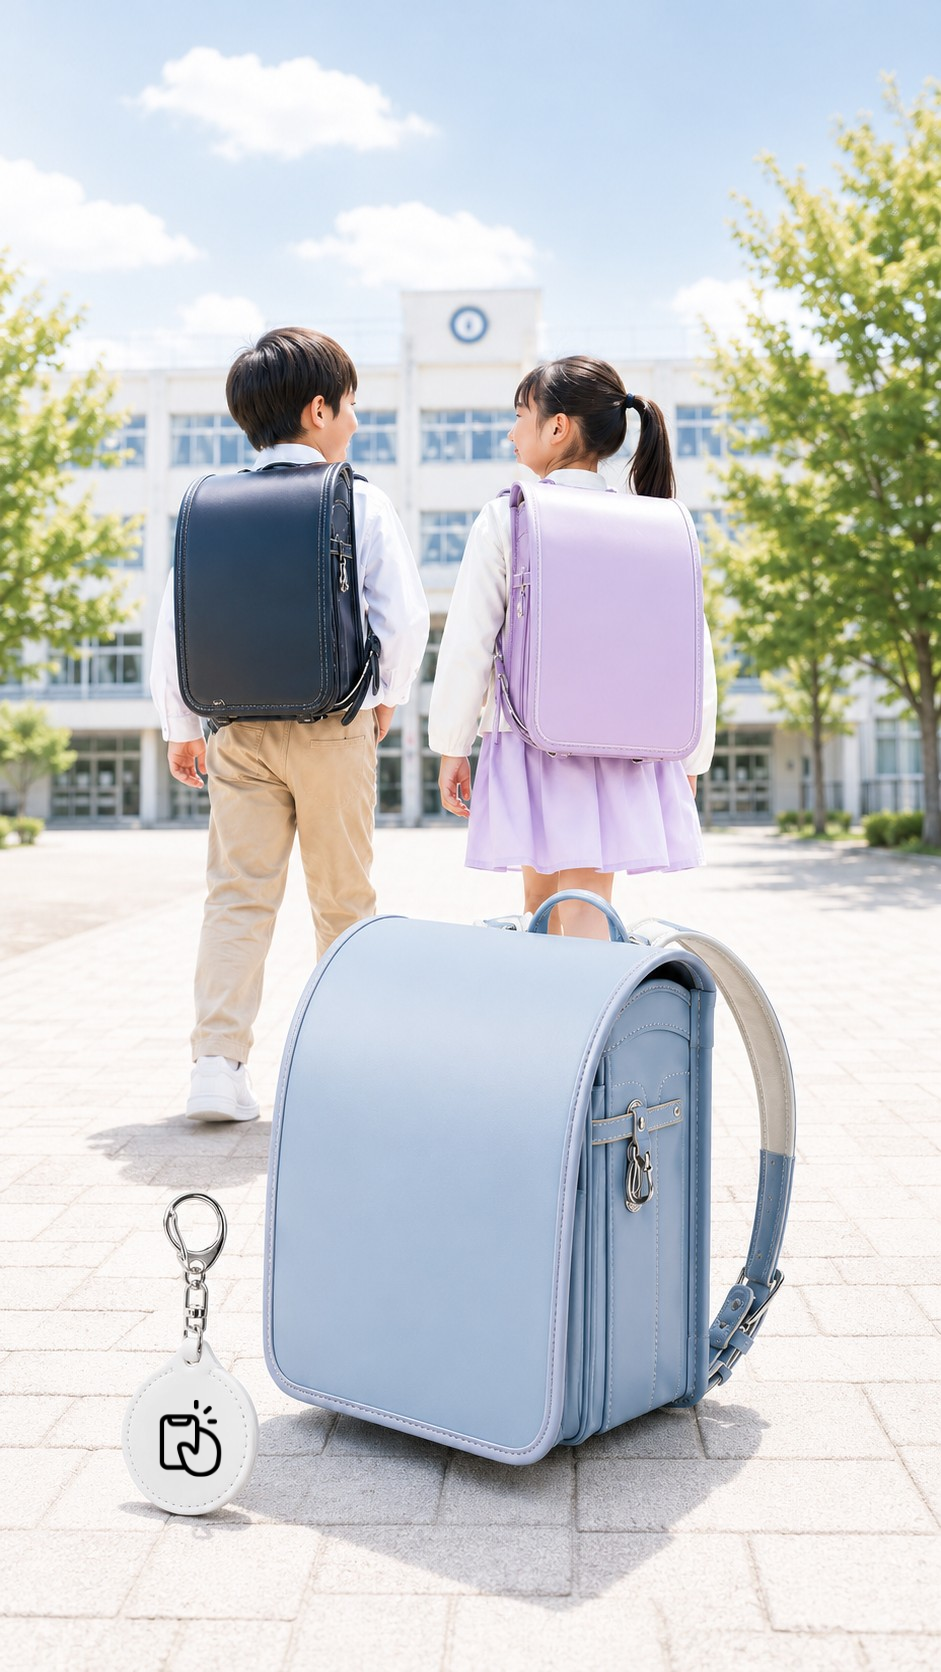
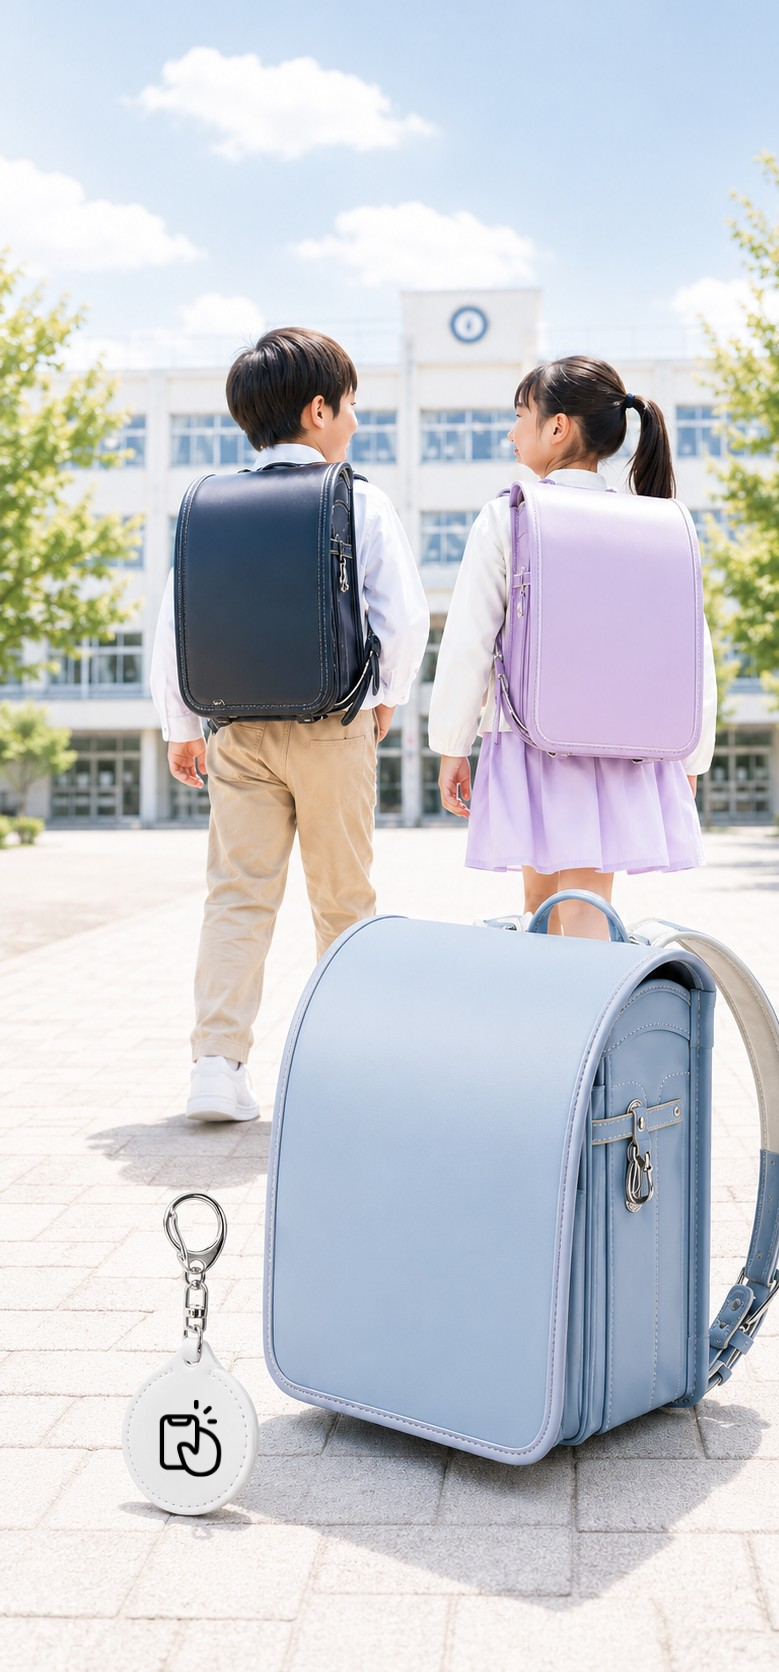
1ページ目の写真をD案の大きさにし、右側を削って見出しとの重なりを解消
写真は上端0から下部の帯までいっぱいに使う（検討用に出したD案の大きさ）。
そのままだと左に張り出して見出しが男の子のランドセルに掛かるため、
写真の右側を162px落とし、被写体を右へ寄せた。倍率はD案のまま変えていない。

男の子のランドセルは画像の左端から163pxの位置にある。この幅なら紙の上で
56.3%に来て、見出しの右端（実測54.3%）より右に収まる。

左端を溶かし切る位置も、写真のICタグが写り始める手前（画像の左から15%）に
合わせ直した。ここより左は石畳と校舎だけなので、タグとランドセルはぼやけない。

Closes #34

diff --git a/flyers/school/index.html b/flyers/school/index.html
@@ -17,11 +17,11 @@
 <!-- ============ 1ページ目 ============ -->
 <section class="sheet" aria-label="1ページ目">
   <!--
-    写真は切らずに1枚まるごと使う。上端と右端は裁ち落とし、下端は帯に接する。
+    写真は上端から下部の帯までいっぱいに使う。上端と右端は裁ち落とし。
     そのぶん左側が紙の途中で切れるので、.hero-photo で左端を白へ溶かしている。
     ICタグのキーホルダーも同じ写真に写っているため、別画像では重ねない。
   -->
-  <img class="a hero-photo" src="images/p1_photo.png" style="left:53.5%;top:25.4%;width:46.5%;" alt="ICタグのキーホルダーを付けたランドセルと、通学する児童の写真">
+  <img class="a hero-photo" src="images/p1_photo.png" style="left:44.78%;top:0;width:55.22%;" alt="ICタグのキーホルダーを付けたランドセルと、通学する児童の写真">
   <img class="a" src="images/p1_logo.png"     style="left:41.5%;top:6.2%;width:14.7%;" alt="ICタグ読み取りアイコン">
   <img class="a" src="images/p1_flow_icons.png" style="left:4%;top:66.9%;width:42.2%;" alt="発見からスマホでかざして匿名連絡する流れ">
 

diff --git a/flyers/school/style.css b/flyers/school/style.css
@@ -51,10 +51,13 @@ img.a {
 /*
  * 1ページ目の写真。紙の途中で左端が切れると断ち切り線が目立つので、
  * 左を白へ溶かす。用紙は白なので、透過させれば白に消える。
+ *
+ * 溶かし切る位置は、写真のICタグが写り始める手前（画像の左から15%）。
+ * ここより左は石畳と校舎だけなので、タグとランドセルはぼやけない。
  */
 .hero-photo {
-  -webkit-mask-image: linear-gradient(to right, transparent 0%, #000 13%);
-  mask-image: linear-gradient(to right, transparent 0%, #000 13%);
+  -webkit-mask-image: linear-gradient(to right, transparent 0%, #000 15%);
+  mask-image: linear-gradient(to right, transparent 0%, #000 15%);
 }
 
 .t {
